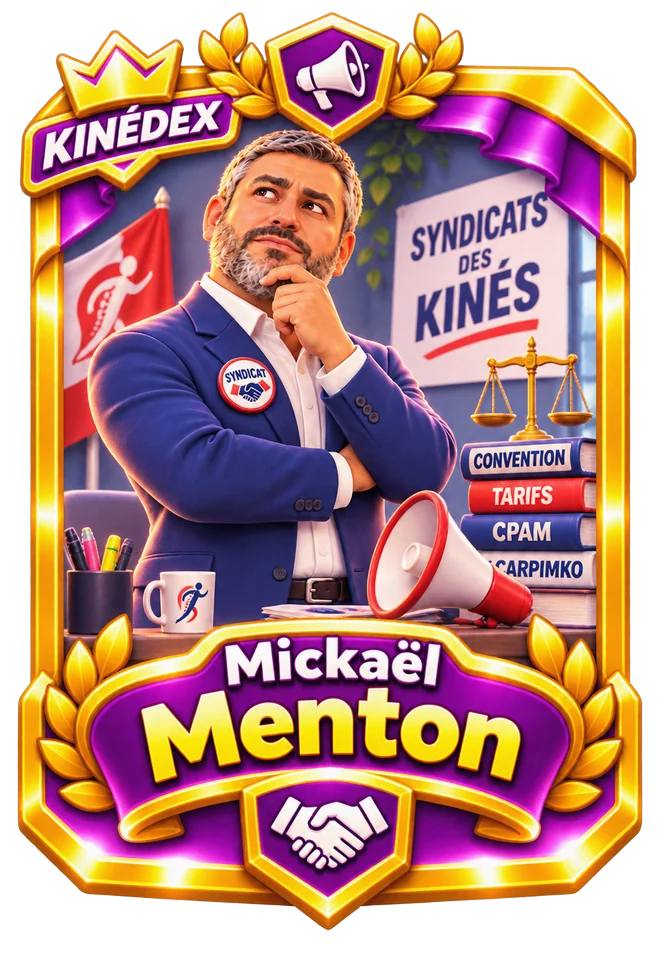
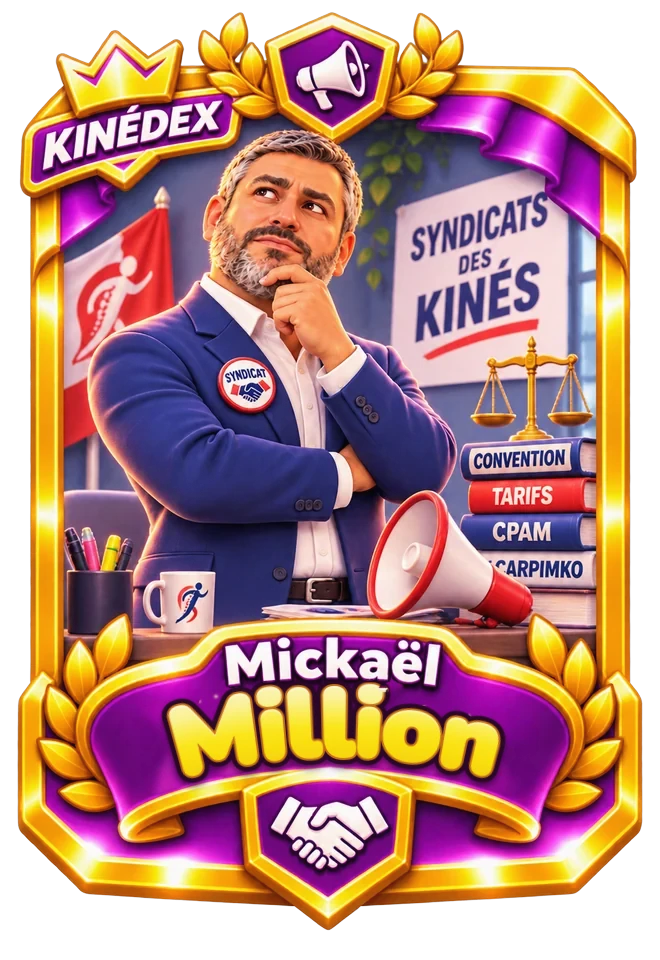
Mickaël Menton devient Mickaël Million
Le syndicaliste change de nom dans tous les textes du jeu (dialogues,
quêtes, boutique, maison des syndicats, Kinédex) et sur sa carte du
Kinédex (kx_menton et kxs_menton : le nom est réécrit sur le ruban, dans
le même style). sw.js passe en v13 pour que les téléphones rechargent
les images de la carte.

Claude-Session: https://claude.ai/code/session_01H629iM6hDigkUxyknyvTS4

Changed region(s): [[0.2121, 0.6875, 0.8182, 0.8438]]

diff --git a/src/data/kinedex.js b/src/data/kinedex.js
@@ -17,7 +17,7 @@ export const KX = {
   paul: { name: 'Paul Have You Seen', who: 'paul', lore: 'paul', role: 'Kiné gourmand', quote: 'Have you seen ce fondant au chocolat ?', meet: 'Il peut devenir ton assistant ou ton remplaçant.' },
   clement: { name: 'Clément Drill UK', who: 'clement', lore: 'clement', role: 'Kiné rappeur', quote: 'Le flow est propre, la posture aussi.', meet: 'Il peut devenir ton assistant ou ton remplaçant.' },
   alex: { name: 'Alexandre Klopp', who: 'sage', lore: 'alex', role: 'Conseiller de la CARPIMKO', quote: 'Ta retraite, ça se prépare dès ta première année !', meet: 'À la CARPIMKO, la caisse de retraite des kinés.' },
-  menton: { name: 'Mickaël Menton', who: 'menton', lore: null, role: 'Syndicaliste depuis trente ans', quote: 'Un contrat, ça se relit. Deux fois.', meet: 'Il vient te parler des syndicats après tes démarches.' },
+  menton: { name: 'Mickaël Million', who: 'menton', lore: null, role: 'Syndicaliste depuis trente ans', quote: 'Un contrat, ça se relit. Deux fois.', meet: 'Il vient te parler des syndicats après tes démarches.' },
   seb: { name: 'Sébastien Saccharose', who: 'seb', lore: 'seb', role: 'Pro de la pédagogie… et du sucre', quote: 'Un patient qui comprend, c’est un patient qui guérit. Tu veux un bonbon ?', meet: 'Il passe de temps en temps en ville, une sucette à la main.' },
   florent: { name: 'Florent Céplula', who: 'florent', lore: 'florent', role: 'Kiné fou de tennis', quote: 'Tamis 100 pouces, cordage multifilament. Et toi, ton tamis ?', meet: 'Il traverse la ville, raquette à la main.' },
   fee: { name: 'Ninassurance', who: 'fee', lore: null, role: 'Assurances et prévoyance', quote: 'Arrêt de travail, invalidité, RCP : on en parle ?', meet: 'Au bâtiment des assurances.' },

diff --git a/src/story/scripts.js b/src/story/scripts.js
@@ -174,7 +174,7 @@ export const SCRIPTS = {
     await say('mentor', 'happy', `Objectif : au moins ${ECO.assistMin} mois d'assistanat et ${fmt(ECO.apportMin)} € d'apport. Ensuite, tu pourras créer ton cabinet, chez toi, à Mériniaque. Touche la flèche « La Réunion » : Mathieu t'attend !`);
   },
   async menton() {
-    await say('menton', 'happy', `Bonjour, ${gx('jeune homme', 'jeune femme')} ! Mickaël Menton, kiné et syndiqué depuis trente ans. Vos démarches sont faites ? Alors il me reste à vous parler des syndicats, ${G.pseudo} !`);
+    await say('menton', 'happy', `Bonjour, ${gx('jeune homme', 'jeune femme')} ! Mickaël Million, kiné et syndiqué depuis trente ans. Vos démarches sont faites ? Alors il me reste à vous parler des syndicats, ${G.pseudo} !`);
     await say('menton', 'think', "Un conseil d'ancien : la seule ressource informative vraiment capable de vous aider, ce sont les syndicats. Même s'ils ne répondent parfois qu'à leurs adhérents…");
     await say('menton', 'happy', "Nous défendons la profession, nous négocions la convention avec l'Assurance Maladie, et nous relisons vos contrats. Et la cotisation syndicale est déductible !");
     const ok = await quiz('menton', 'think', "Petite colle : l'Ordre et les syndicats, c'est la même chose ?", ["Oui, ce sont les mêmes missions", "Non : l'Ordre a des missions administratives et disciplinaires, il est consulté par les ministres ; ses missions peuvent être contraires à celles des syndicats"], 1);

diff --git a/src/ui/shop.js b/src/ui/shop.js
@@ -229,7 +229,7 @@ const Classify = {
 async function buyItem(id, el) {
   const it = ITEMS[id], st = Shop.itemState(id);
   if (st === 'done') { AudioSys.tap(); toast(it.kind === 'forbidden' ? "Interdit : on ne paie pas pour être référencé en premier !" : it.kind === 'service' ? `Tu es déjà ${gx('adhérent', 'adhérente')}.` : it.kind === 'vehicle' ? 'Il est à toi : touche la flèche au bord de la carte pour partir !' : 'Tu as déjà cet équipement.'); return; }
-  if (st === 'locked') { AudioSys.wrong(); shake(el); toast(it.needs === 'menton' ? "Tu ne sais pas encore à quoi servent les syndicats… Mickaël Menton viendra t'en parler." : !ownCab() ? "Ce matériel irait dans <b>ton propre cabinet</b> : pour l'instant, tu travailles chez un confrère !" : `Disponible avec ton <b>cabinet niveau ${it.lvl}</b>.`); return; }
+  if (st === 'locked') { AudioSys.wrong(); shake(el); toast(it.needs === 'menton' ? "Tu ne sais pas encore à quoi servent les syndicats… Mickaël Million viendra t'en parler." : !ownCab() ? "Ce matériel irait dans <b>ton propre cabinet</b> : pour l'instant, tu travailles chez un confrère !" : `Disponible avec ton <b>cabinet niveau ${it.lvl}</b>.`); return; }
   if (it.kind === 'forbidden') {
     state.busy = true;
     await Talk.open(); await SCRIPTS.google(); await Talk.close();

diff --git a/src/data/quests.js b/src/data/quests.js
@@ -1,7 +1,7 @@
 /* ---------- Quests, one list per stage of the career ---------- */
 export const QUESTS = {
   rempl: [
-    { id: 'menton', title: 'Écouter Mickaël Menton parler des syndicats', xp: 15 },
+    { id: 'menton', title: 'Écouter Mickaël Million parler des syndicats', xp: 15 },
     { id: 'board', title: 'Consulter les offres de remplacement', xp: 10 },
     { id: 'apply', title: 'Postuler à une offre', xp: 10 },
     { id: 'study', title: 'Étudier un contrat avant de signer', xp: 15 },
@@ -43,7 +43,7 @@ export const QUESTS = {
     { id: 'courses', title: 'Faire des courses au supermarché', xp: 10 },
     { id: 'inst_urssaf', title: 'Réussir toutes les questions de Marvin (URSSAF)', xp: 30 },
     { id: 'inst_carpimko', title: 'Réussir toutes les questions d’Alexandre Klopp (CARPIMKO)', xp: 30 },
-    { id: 'inst_syndicats', title: 'Réussir toutes les questions de Mickaël Menton (syndicats)', xp: 30 },
+    { id: 'inst_syndicats', title: 'Réussir toutes les questions de Mickaël Million (syndicats)', xp: 30 },
     { id: 'inst_assurances', title: 'Réussir toutes les questions de Ninassurance (assurances)', xp: 30 },
     { id: 'assure', title: 'Souscrire un contrat d’assurance facultatif', xp: 15 },
     { id: 'cpam', title: 'Passer un contrôle de la CPAM', xp: 25 },

diff --git a/src/story/talk.js b/src/story/talk.js
@@ -6,7 +6,7 @@ import { Guide } from '../ui/guide.js';
 import { hideToast } from '../ui/helpers.js';
 
 /* ================= Dialogue engine ================= */
-const ACTOR_NAMES = { mentor: MENTOR, goblin: 'Gobelin de la CPAM', ambroise: 'Ambroise', mathieu: 'Mathieu Motpourmot', marvin: "Marvin · URSSAF", menton: 'Mickaël Menton', thomas: 'Thomas Cassmoildeau', julien: 'Julien Coulommiers', etienne: 'Étienne Poulet', damien: 'Damien · Chevalier de l’Ordre',
+const ACTOR_NAMES = { mentor: MENTOR, goblin: 'Gobelin de la CPAM', ambroise: 'Ambroise', mathieu: 'Mathieu Motpourmot', marvin: "Marvin · URSSAF", menton: 'Mickaël Million', thomas: 'Thomas Cassmoildeau', julien: 'Julien Coulommiers', etienne: 'Étienne Poulet', damien: 'Damien · Chevalier de l’Ordre',
   fee: 'Ninassurance · Assurances', sage: 'Alexandre Klopp · CARPIMKO', chad: 'Chad Cook', gabriel: 'Gabriel', mathis: 'Mathis', paul: 'Paul', clement: 'Clément Drill UK', suzie: 'Suzie Taillebois', alien: 'Un alien',
   echog: 'Doc Échografikos', florent: 'Florent Céplula', seb: 'Sébastien Saccharose', yan: 'Yan Ducachot' };
 const ACTOR_THEME = { marvin: 'urssaf', goblin: 'cnam' };

diff --git a/src/game/career.js b/src/game/career.js
@@ -36,7 +36,7 @@ export const Career = {
     if (G.monthsAssist < ECO.assistMin) return long ? `Encore un peu d'expérience : <b>${G.monthsAssist} / ${ECO.assistMin} mois</b> d'assistanat.` : `Assistanat ${G.monthsAssist}/${ECO.assistMin} mois`;
     return long ? `Il te faut <b>${eur(ECO.apportMin)}</b> d'apport (tu as ${eur(G.money)}).` : `Apport ${fmt(G.money)} / ${fmt(ECO.apportMin)} €`;
   },
-  /* End of the démarches: Mickaël Menton (syndicats), then the remplacement year starts. */
+  /* End of the démarches: Mickaël Million (syndicats), then the remplacement year starts. */
   async toRempl() {
     await this.mentonCome();
     G.phase = 'rempl'; G.date = { ...START_DATE }; Board.init(); persist(); HUD.render();
@@ -136,7 +136,7 @@ export const Career = {
     if (Cpam.due()) await Cpam.control();
     persist(); HUD.render();
   },
-  /* Mickaël Menton, kiné and syndiqué, comes to talk about the syndicats right after your démarches. */
+  /* Mickaël Million, kiné and syndiqué, comes to talk about the syndicats right after your démarches. */
   async mentonCome() {
     if (G.q.menton) return;
     await need(charSheets('menton'));

diff --git a/src/story/buildings.js b/src/story/buildings.js
@@ -40,8 +40,8 @@ export const BUILDINGS = {
     ]
   },
   syndicats: {
-    title: 'Syndicats', host: 'menton', hostName: 'Mickaël Menton',
-    hello: ['happy', "Bienvenue à la maison des syndicats ! Mickaël Menton, kiné et syndiqué depuis trente ans. Ici, on défend la profession."],
+    title: 'Syndicats', host: 'menton', hostName: 'Mickaël Million',
+    hello: ['happy', "Bienvenue à la maison des syndicats ! Mickaël Million, kiné et syndiqué depuis trente ans. Ici, on défend la profession."],
     talk: [
       ['happy', "Les syndicats représentatifs négocient la convention nationale avec l'Assurance Maladie : c'est comme ça que sont nés les avenants, et la nouvelle cotation des actes."],
       ['think', "La CPAM ne s'occupe que de l'administratif : ce ne sont ni des amis, ni des conseillers. Pour des conseils, viens nous voir… même si on répond parfois en priorité à nos adhérents."],

diff --git a/src/scenes/interior.js b/src/scenes/interior.js
@@ -157,7 +157,7 @@ export const Interior = {
   async syndic() {
     if (G.owned.syndicat) { await infoCard({ kick: 'Syndicats', title: `Tu es ${gx('adhérent', 'adhérente')}`, html: frSpace("Ton syndicat relit tes contrats : touche le bouton « Syndicat » quand tu lis un contrat. Ta cotisation (180 € par an) est déductible."), art: `<img src="${URLS.av_menton}" alt="" class="ch-av">` }); return; }
     if (!G.q.menton) {
-      /* the first time, Mickaël Menton presents the syndicats (the same talk as after your démarches) */
+      /* the first time, Mickaël Million presents the syndicats (the same talk as after your démarches) */
       state.busy = true; this.host.pose = 'talk';
       await Talk.open(); const ok = await SCRIPTS.menton(); await Talk.close(true);
       this.host.pose = 'idle'; state.busy = false;

diff --git a/sw.js b/sw.js
@@ -3,7 +3,7 @@
      mélanger des fichiers de l'ancienne et de la nouvelle version juste après une mise à jour) ;
    - images, sons, polices : cache d'abord, ils changent rarement.
    Si vous remplacez une image ou un son en gardant le même nom, augmentez VERSION. */
-const VERSION = 'v12';
+const VERSION = 'v13';
 const CACHE = 'clash-of-cabs-' + VERSION;
 
 self.addEventListener('install', (e) => {

diff --git a/README.md b/README.md
@@ -2,7 +2,7 @@
 
 Jeu pédagogique de gestion de cabinet de kinésithérapie : du diplôme au cabinet à soi, en passant par le remplacement, l'assistanat, les contrats, l'Ordre, la cotation NGAP, la compta et la 2035. Projet K5, UE14 (législation et gestion de cabinet).
 
-**Version 6 (dernière mise à jour) :** les patients exposent leur problème (41 cas cliniques tirés de nos cours : UE16 à UE23) ; on choisit la bonne prise en charge parmi trois, puis la cotation (la bonne est mise en évidence). Le tutoriel des démarches est fait par les personnages : Ninassurance (assurances), Pascale Matué (Ordre), Marvin (URSSAF), Alexandre Klopp (CARPIMKO), le gobelin de la CPAM (dans sa cabane) et Mickaël Menton (syndicats). Les assistants rapportent des revenus passifs à récolter au-dessus du cabinet, comme une mine d'or. Nouvel assistant : Clément Drill UK. Cartes agrandies, bordées de nuages (la caméra ne montre plus les bords), flèches de voyage, nouvelles voitures, cinématiques de voyage plus dynamiques. Missions chez Chad Cook (Michigan) puis Suzie Taillebois sur la Lune, la fin du jeu : la fusée part de la base spatiale de Mériniaque. Cowboys au Michigan, passants créoles à La Réunion, aliens sur la Lune.
+**Version 6 (dernière mise à jour) :** les patients exposent leur problème (41 cas cliniques tirés de nos cours : UE16 à UE23) ; on choisit la bonne prise en charge parmi trois, puis la cotation (la bonne est mise en évidence). Le tutoriel des démarches est fait par les personnages : Ninassurance (assurances), Pascale Matué (Ordre), Marvin (URSSAF), Alexandre Klopp (CARPIMKO), le gobelin de la CPAM (dans sa cabane) et Mickaël Million (syndicats). Les assistants rapportent des revenus passifs à récolter au-dessus du cabinet, comme une mine d'or. Nouvel assistant : Clément Drill UK. Cartes agrandies, bordées de nuages (la caméra ne montre plus les bords), flèches de voyage, nouvelles voitures, cinématiques de voyage plus dynamiques. Missions chez Chad Cook (Michigan) puis Suzie Taillebois sur la Lune, la fin du jeu : la fusée part de la base spatiale de Mériniaque. Cowboys au Michigan, passants créoles à La Réunion, aliens sur la Lune.
 
 **Version 6.1 :** écran « Michigan » au lancement (le logo brille avec son jingle, puis un jingle sur l'écran de chargement), le jeu commence toujours par le choix du personnage (avec « Continuer » pour reprendre sa partie), les passants ne marchent plus que sur les routes et les chemins, on touche son cabinet pour l'améliorer (« Améliorer au niveau X ») ou finir le chantier tout de suite en payant, mini-jeu Fraude mieux calé sur la musique et plus rythmé, nouveau logo en haut à gauche, emblème de l'Ordre (la tour) dans le tutoriel, la pièce des assistants au-dessus de la bulle « Accueillir », nouveaux cabinets intérieurs pour Julien, Mathieu, Chad et Suzie, nouveaux personnages pour Thomas, Julien, Mathieu et Étienne, et quatre nouveaux patients âgés (plus un passant sportif).
 
@@ -38,7 +38,7 @@ Le jeu n'a **aucune étape de compilation** : les fichiers du dépôt sont exact
 | Les supermarchés (fournitures, nourriture) | `src/data/market.js` |
 | Les assistants possibles (Ambroise, Gabriel, Mathis, Clément, Paul) | `src/data/staff.js` |
 | Les revenus passifs des assistants (vitesse de remplissage) | `src/game/mine.js` |
-| Ce que disent Marvin (URSSAF), Alexandre Klopp (CARPIMKO), Mickaël Menton (syndicats) et Ninassurance (assurances) | `src/story/buildings.js` |
+| Ce que disent Marvin (URSSAF), Alexandre Klopp (CARPIMKO), Mickaël Million (syndicats) et Ninassurance (assurances) | `src/story/buildings.js` |
 | Les petites histoires des personnages (lore : Sonora, recettes de poulet, Marvin de l'Ouest, anecdotes de Pascale, assistants…) | `src/data/lore.js` |
 | Les cartes : bâtiments cliquables, chemins des passants, flèches vers les autres destinations, zoom (fichier généré) | `src/data/worlds.js` |
 | Les cabinets des confrères (nom, titulaire, matériel) | `src/data/town-map.js` |
